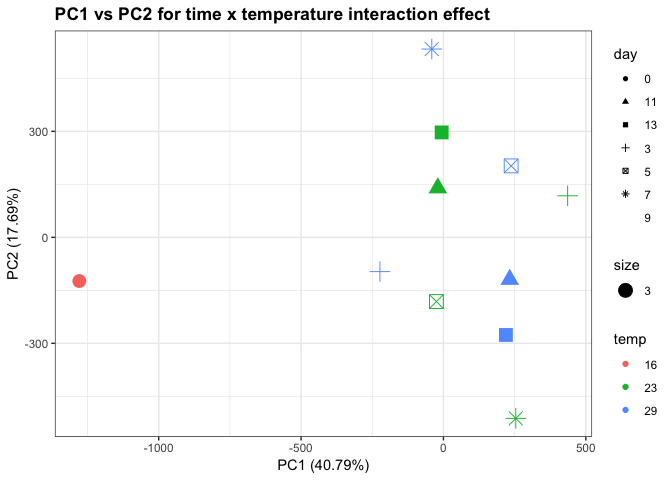
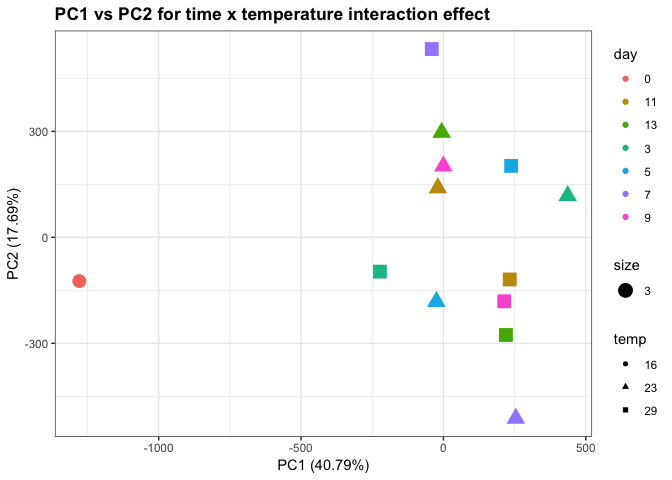
ASCA on average NSAF values for all proteins

diff --git a/analysis/ASCA/ASCA_all_proteins_avgADJNSAF/ASCA_avgNSAFvals_AllProteins.md b/analysis/ASCA/ASCA_all_proteins_avgADJNSAF/ASCA_avgNSAFvals_AllProteins.md
@@ -3,7 +3,9 @@ ASCA on average NSAF values of all proteins
 Shelly Trigg
 1/17/2019
 
-load libraries
+1.  load libraries
+
+<!-- -->
 
     ## Warning: package 'dplyr' was built under R version 3.4.4
 
@@ -46,18 +48,18 @@ load libraries
 
     ## Warning: package 'ggplot2' was built under R version 3.4.4
 
-load data
+1.  load data
 
 ``` r
 #NSAF data from filtered proteins
 data <- read.csv("~/Documents/GitHub/OysterSeedProject/analysis/nmds_R/silo3and9_nozerovals_AVGs.csv", stringsAsFactors = FALSE)
 ```
 
-Load data with annotations so protein IDs can be substituted with shorter names
+1.  load data with annotations so protein IDs can be substituted with shorter names
 
-subset the data for only CHOYP proteins; this removes contaminant proteins
+2.  subset the data for only CHOYP proteins; this removes contaminant proteins
 
-perform ASCA
+3.  perform ASCA
 
 ``` r
 #create matrix to pass to ASCA command, excluding the silo and time info
@@ -133,7 +135,7 @@ ASCA.GetSummary(ASCA)
 
 ### Plot PCAs from ASCA
 
-This first plot is the time (days) effect PCA
+**This first plot is the time (days) effect PCA**
 
 ``` r
 #plot PCA for factor 1, which is time in this case
@@ -142,7 +144,7 @@ ASCA.PlotScoresPerLevel(ASCA, ee = "1", pcs = "1,2")
 
 ![](ASCA_avgNSAFvals_AllProteins_files/figure-markdown_github/avgNSAF_PCA_timeEffect_plot-1.png)
 
-This next plot is the temperature effect PCA
+**This next plot is the temperature effect PCA**
 
 ``` r
 #plot PCA for factor 2, which is temperature in this case
@@ -151,7 +153,7 @@ ASCA.PlotScoresPerLevel(ASCA, ee = "2", pcs = "1,2")
 
 ![](ASCA_avgNSAFvals_AllProteins_files/figure-markdown_github/avgNSAF_PCA_tempEffect_plot-1.png)
 
-This next plot is the time x temp interaction effect PCA
+**This next plot is the time x temp interaction effect PCA**
 
 ``` r
 #plot PCA for factor interaction, which is time x temp in this case
@@ -160,109 +162,39 @@ timextemp_PC12 <- cbind(data.frame(ASCA$`12`$level.combinations$row.patterns), t
 colnames(timextemp_PC12)<- c("day","temp","PC1","PC2")
 timextemp_PC12$day <- as.character(timextemp_PC12$day)
 timextemp_PC12$temp <- as.character(timextemp_PC12$temp)
-ggplot(timextemp_PC12, aes(PC1, PC2)) + geom_point(aes(col = temp, shape = day, size = 3)) + theme_bw() + ggtitle("PC1 vs PC2 for time x temperature interaction effect") + theme(plot.title = element_text(face = "bold")) + xlab(paste("PC1"," (",formatC(ASCA$`12`$svd$var.explained[1] * 100,digits=2,format="f"),"%)", sep = "")) + ylab(paste("PC2"," (",formatC(ASCA$`12`$svd$var.explained[2] * 100,digits=2,format="f"),"%)", sep = ""))
+ggplot(timextemp_PC12, aes(PC1, PC2)) + geom_point(aes(col = day, shape = temp, size = 3)) + theme_bw() + ggtitle("PC1 vs PC2 for time x temperature interaction effect") + theme(plot.title = element_text(face = "bold")) + xlab(paste("PC1"," (",formatC(ASCA$`12`$svd$var.explained[1] * 100,digits=2,format="f"),"%)", sep = "")) + ylab(paste("PC2"," (",formatC(ASCA$`12`$svd$var.explained[2] * 100,digits=2,format="f"),"%)", sep = ""))
 ```
-
-    ## Warning: The shape palette can deal with a maximum of 6 discrete values
-    ## because more than 6 becomes difficult to discriminate; you have 7.
-    ## Consider specifying shapes manually if you must have them.
-
-    ## Warning: Removed 2 rows containing missing values (geom_point).
 
 ![](ASCA_avgNSAFvals_AllProteins_files/figure-markdown_github/avgNSAF_PCA_timeXtempEffect_plot-1.png)
 
 ### Analysis of proteins affected by temperature
 
-plot PC2 loadings for temperature effect
+Because the temperature effect PCA show the most separation between 23C and 29C in PC2, we will look at those loadings.
 
-``` r
-#extract protein names from ASCA data; these will be combined with loadings values; the order is maintained
-protnames <- data.frame(colnames(ASCA$data))
-#combine protein names with ASCA loadings for PC2 for temperature, since this component showed the greatest separation between temperatures
-d <- cbind(protnames, ASCA$`2`$svd$v[,2])
-#rename the columns
-colnames(d) <- c("protein", "PC2loadings")
-#make a dataframe of proteins with PC loadings greater than zero for the loadings plot
-d_great <- d[which(d$PC2loadings > 0),]
-#make a dataframe of proteins with PC loadings less than zero for the loadings plot
-d_less <- d[which(d$PC2loadings < 0),]
-#plot PC1 loadings
-plot(d_great[order(d_great$PC2loadings, decreasing = TRUE),2], xlab = "protein", ylab = "PC2 Loadings")
-```
-
-![](ASCA_avgNSAFvals_AllProteins_files/figure-markdown_github/avgNSAF_PCA_tempEffect_PC2loadings-1.png)
-
-``` r
-plot(d_less[order(d_less$PC2loadings, decreasing = TRUE),2],xlab = "protein", ylab = "PC2 Loadings")
-```
-
-![](ASCA_avgNSAFvals_AllProteins_files/figure-markdown_github/avgNSAF_PCA_tempEffect_PC2loadings-2.png)
+**PC2 loadings for temperature effect** ![](ASCA_avgNSAFvals_AllProteins_files/figure-markdown_github/avgNSAF_PCA_tempEffect_PC2loadings-1.png)![](ASCA_avgNSAFvals_AllProteins_files/figure-markdown_github/avgNSAF_PCA_tempEffect_PC2loadings-2.png)
 
 To pull out proteins affected by temperature based on their influence in seperating treatment groups on PC2 of the temperature PCA, I picked an absolute value loadings threshold of 0.025. This means any protein that had a loadings value \> 0.025 or \< -0.025 was selected.
 
-``` r
-#make list of proteins with temperature PC1 loadings values >= 0.025
-cutd <- d[which(abs(d$PC2loadings) >= 0.025),]
-#number of proteins affected by temp
-nrow(cutd)
-```
-
     ## [1] 138
 
-``` r
-#make a list of cutoff proteins with normalized abundance
-cut_data <-data[,which(colnames(data) %in% cutd$protein)]
-rownames(cut_data) <- paste(data$day, data$temp, sep="_")
-```
-
-Plot a heatmap of proteins affected by temperature based on temperature effect PC2 loadings value cutoff
-
-``` r
-#reorder the cut data so that samples are grouped by temperature
-cut_data_ord <- data[,c(1:3,which(colnames(data) %in% cutd$protein))]
-cut_data_ord <- cut_data_ord[order(cut_data_ord$temp,cut_data_ord$day),]
-rownames(cut_data_ord) <- paste(cut_data_ord$day, cut_data_ord$temp, sep="_")
-cut_data_ord <- cut_data_ord[,-c(1:3)]
-#replace CHOYP names with "entry names"
-#transposed to eventually get row names as columns to match entry names to. 
-#t.data.frame returns a matrix so I had convert back to data frame for all downstream rearranging because data frames are much easier to work with
-cut_data_ord_t <- data.frame(t.data.frame(cut_data_ord))
-#make row names which contain the protein IDs a column
-cut_data_ord_t <- cbind(rownames(cut_data_ord_t), cut_data_ord_t)
-#add the column name
-colnames(cut_data_ord_t)[1] <- "Protein.ID"
-#convert the Protein ID column to character
-cut_data_ord_t[,1] <- as.character(cut_data_ord_t[,1])
-#add the Entry names
-cut_data_ord_t <- merge(data_w_uniprot[,c("Protein.ID","Entry.name.new")],cut_data_ord_t, by = "Protein.ID")
-#make the entry names the row names
-rownames(cut_data_ord_t) <- cut_data_ord_t[,"Entry.name.new"]
-#remove the protein ID and entry name columns since the row names are added
-cut_data_ord_t <- cut_data_ord_t[,-c(1:2)]
-#this step removes the x from the column names while preserving the order of colnames
-colnames(cut_data_ord_t) <- rownames(cut_data_ord)
-#plot the heat map
-heatmap3(as.matrix(cut_data_ord_t), Colv = NA, cexRow = 0.5)
-```
-
-![](ASCA_avgNSAFvals_AllProteins_files/figure-markdown_github/avgNSAF_tempEffectPC2_cutoff0.025_heatmap_OrderedByTemp_ShortNames-1.png)
+**Heatmap of proteins affected by temperature based on temperature effect PC2 loadings value cutoff** ![](ASCA_avgNSAFvals_AllProteins_files/figure-markdown_github/avgNSAF_tempEffectPC2_cutoff0.025_heatmap_OrderedByTemp_ShortNames-1.png)
 
 ### Analysis of proteins affected by time (development associated proteins)
 
-plot PC1 loadings for the time effect PCA ![](ASCA_avgNSAFvals_AllProteins_files/figure-markdown_github/avgNSAF_PCA_timeEffect_PC1loadings-1.png)![](ASCA_avgNSAFvals_AllProteins_files/figure-markdown_github/avgNSAF_PCA_timeEffect_PC1loadings-2.png)
+**PC1 loadings for the time effect PCA** ![](ASCA_avgNSAFvals_AllProteins_files/figure-markdown_github/avgNSAF_PCA_timeEffect_PC1loadings-1.png)![](ASCA_avgNSAFvals_AllProteins_files/figure-markdown_github/avgNSAF_PCA_timeEffect_PC1loadings-2.png)
 
-plot PC2 loadings for the time effect PCA ![](ASCA_avgNSAFvals_AllProteins_files/figure-markdown_github/avgNSAF_PCA_timeEffect_PC2loadings-1.png)![](ASCA_avgNSAFvals_AllProteins_files/figure-markdown_github/avgNSAF_PCA_timeEffect_PC2loadings-2.png)
+**PC2 loadings for the time effect PCA** ![](ASCA_avgNSAFvals_AllProteins_files/figure-markdown_github/avgNSAF_PCA_timeEffect_PC2loadings-1.png)![](ASCA_avgNSAFvals_AllProteins_files/figure-markdown_github/avgNSAF_PCA_timeEffect_PC2loadings-2.png)
 
     ## [1] 230
 
-Plot a heatmap of proteins affected by time based on time effect PC1 and PC2 loadings value cutoffs ![](ASCA_avgNSAFvals_AllProteins_files/figure-markdown_github/avgNSAF_timeEffectPC1and2_cutoff0.025_heatmap_OrderedByTime-1.png)
+**heatmap of proteins affected by time based on time effect PC1 and PC2 loadings value cutoffs** ![](ASCA_avgNSAFvals_AllProteins_files/figure-markdown_github/avgNSAF_timeEffectPC1and2_cutoff0.025_heatmap_OrderedByTime-1.png)
 
 ### Analysis of proteins affected by the interaction of time and temp
 
-plot PC1 loadings for the time x temperature interaction effect PCA ![](ASCA_avgNSAFvals_AllProteins_files/figure-markdown_github/avgNSAF_PCA_timeXtempEffect_PC1loadings-1.png)![](ASCA_avgNSAFvals_AllProteins_files/figure-markdown_github/avgNSAF_PCA_timeXtempEffect_PC1loadings-2.png)
+**PC1 loadings for the time x temperature interaction effect PCA** ![](ASCA_avgNSAFvals_AllProteins_files/figure-markdown_github/avgNSAF_PCA_timeXtempEffect_PC1loadings-1.png)![](ASCA_avgNSAFvals_AllProteins_files/figure-markdown_github/avgNSAF_PCA_timeXtempEffect_PC1loadings-2.png)
 
-plot PC2 loadings for the time x temperature interaction effect PCA ![](ASCA_avgNSAFvals_AllProteins_files/figure-markdown_github/avgNSAF_PCA_timeXtempEffect_PC2loadings-1.png)![](ASCA_avgNSAFvals_AllProteins_files/figure-markdown_github/avgNSAF_PCA_timeXtempEffect_PC2loadings-2.png)
+**PC2 loadings for the time x temperature interaction effect PCA** ![](ASCA_avgNSAFvals_AllProteins_files/figure-markdown_github/avgNSAF_PCA_timeXtempEffect_PC2loadings-1.png)![](ASCA_avgNSAFvals_AllProteins_files/figure-markdown_github/avgNSAF_PCA_timeXtempEffect_PC2loadings-2.png)
 
     ## [1] 219
 
-Plot a heatmap of proteins affected by the time x temperature interaction based on time x temperature effect PC1 and PC2 loadings value cutoffs ![](ASCA_avgNSAFvals_AllProteins_files/figure-markdown_github/avgNSAF_timeXtempEffectPC1and2_cutoff0.025_heatmap_OrderedByTime-1.png)
+**heatmap of proteins affected by the time x temperature interaction based on time x temperature effect PC1 and PC2 loadings value cutoffs** ![](ASCA_avgNSAFvals_AllProteins_files/figure-markdown_github/avgNSAF_timeXtempEffectPC1and2_cutoff0.025_heatmap_OrderedByTime-1.png)
